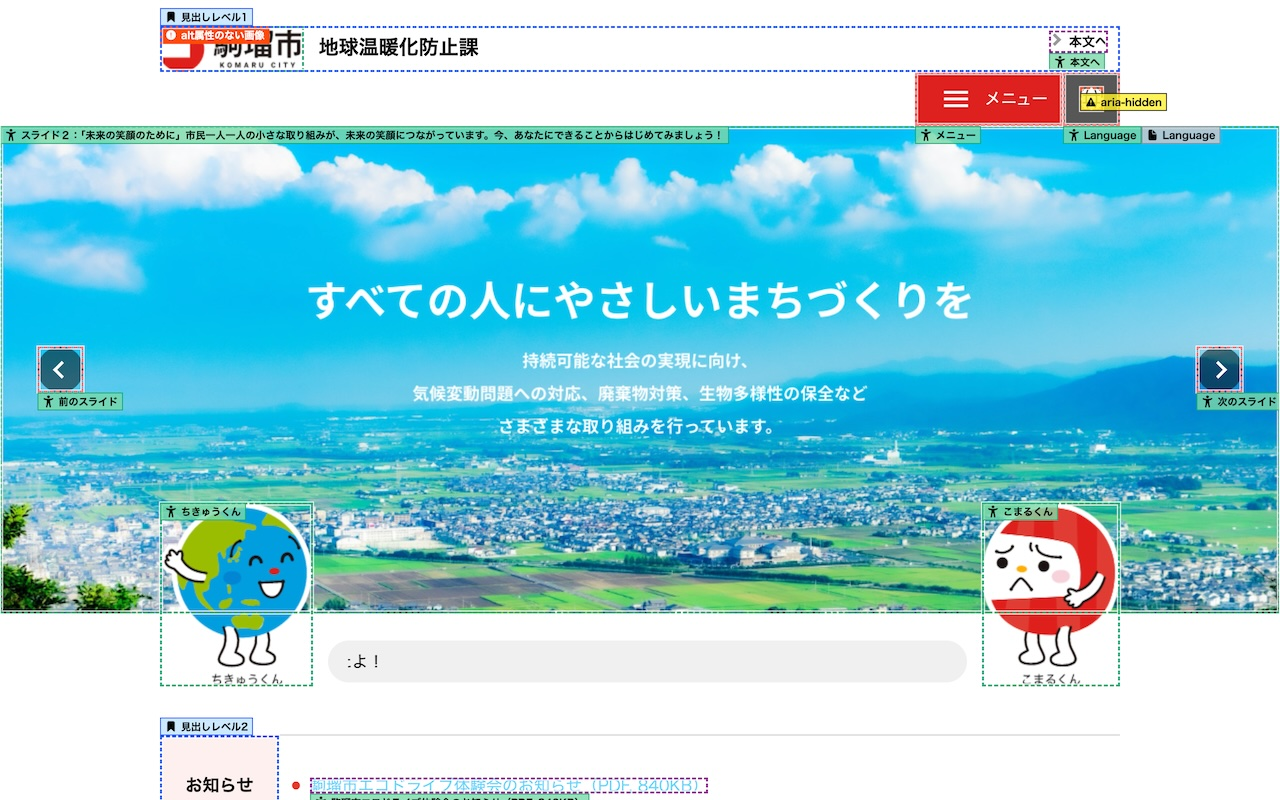
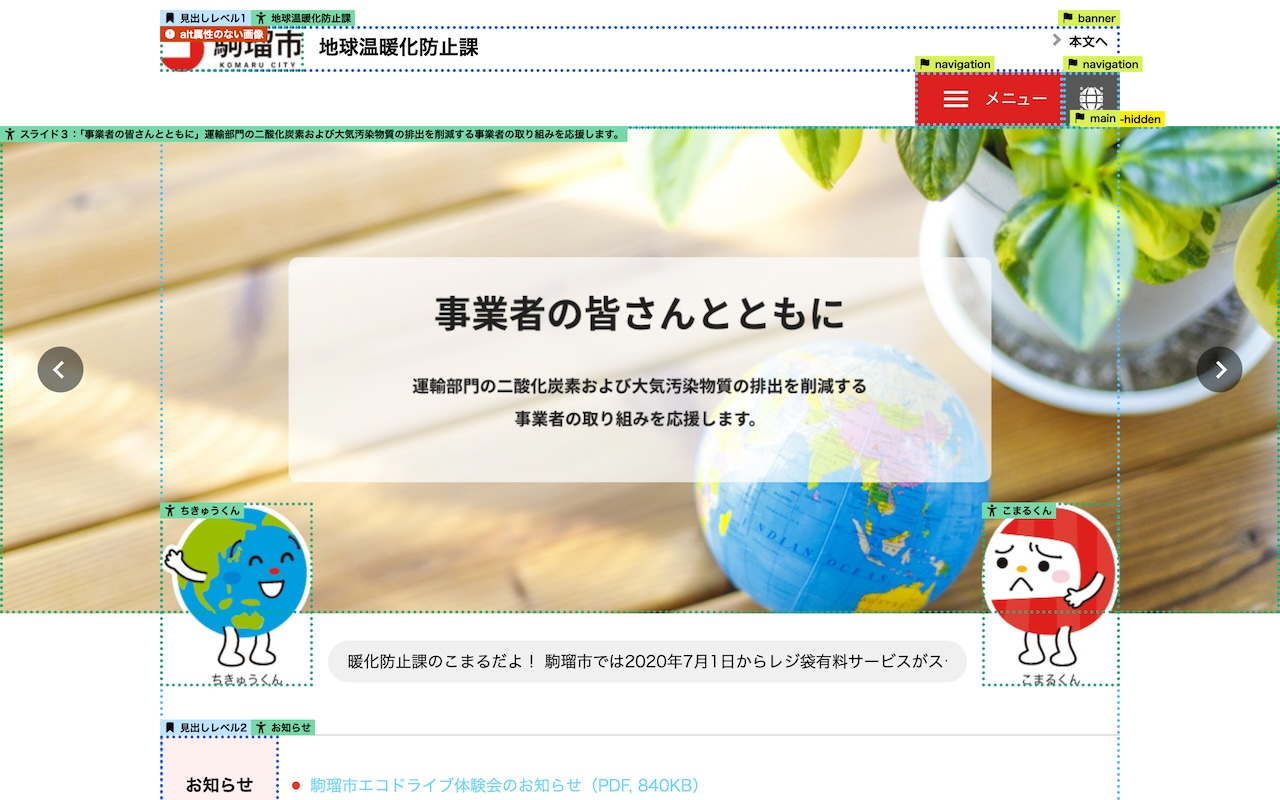
:memo: update documents

diff --git a/docs/en/UsersGuide.md b/docs/en/UsersGuide.md
@@ -4,7 +4,7 @@
 
 Thank you for your interest in Accessibility Visualizer.
 Accessibility Visualizer is a browser extension that aims to visualize important but visually invisible information to improve the accessibility of web pages.
-It is currently distributed for Google Chrome at [Chrome Web Store](https://chromewebstore.google.com/detail/accessibility-visualizer/idcacekakoknnpbfjcdhnkffgfbddnhk).
+It is currently distributed for Google Chrome at [Chrome Web Store](https://chromewebstore.google.com/detail/accessibility-visualizer/idcacekakoknnpbfjcdhnkffgfbddnhk) and for Mozilla Firefox at [Firefox Add-Ons](https://addons.mozilla.org/ja/firefox/addon/accessibility-visualizer/).
 
 ## What you can do with Accessibility Visualizer
 
@@ -54,7 +54,7 @@ The "Tips opacity" slider allows you to adjust the color intensity of the tip di
 When "Announce live regions" was checked in the popup, there was a change in [ARIA live regions](https://developer.mozilla.org/en-US/docs/Web/Accessibility/ARIA/ARIA_Live_Regions) The content will now be displayed near the center of the screen.
 This is a function that allows users of assistive technology such as screen readers to experience and check the operation of the live region function, which is used to inform users of changes in screen status, etc., without using screen readers. .
 
-![A large message "Download now! Speed up your PC!" is displayed in the center of the browser](./images/a11y_visualizer_live_region.png)
+![A large message "Download now! Speed up your PC!" is displayed in the center of the browser](../ja/images/a11y_visualizer_live_region.png)
 
 (The screenshot is from ["aria-live がうるさい (aria-live is noisy)" (ARIA-Barriers)](https://shuaruta.github.io/ARIA-Barriers/2023/12/22/aria-live.html), which displays the announcement. )
 
@@ -78,6 +78,7 @@ There are following types of tips
 - Name: Appears in green with a humanoid icon. Please check that the content is appropriate and that there are no omissions.
 - Description: Appears in gray with a document icon. Please check that the content is appropriate and that there are no omissions.
 - Heading: Displayed in blue with a bookmark icon. Check if the heading level is appropriate
+- Landmark: Displayed in yellow-green with a flag icon. Check if the landmark role is appropriate
 - Warning: Displayed in yellow with a warning triangle icon. Indicates where there may be a problem
 - Error: Displayed in red with an error triangle icon. Definitely indicates where the problem is
 - Role: pink and displayed with a tag icon
@@ -85,9 +86,9 @@ There are following types of tips
 
 "Name" is "[Accessible Name](https://developer.mozilla.org/en-US/docs/Glossary/Accessible_name)" and "Description" is "[Accessible Description](https://developer.mozilla.org/en-US/docs/Glossary/Accessible_description)" value is displayed. These are pieces of information that help users of assistive technologies, such as screen readers, recognize the element.
 
-### image
+### Images
 
-When "Show about image" is checked, tips are displayed for `<img>` elements, `<svg>` elements, and elements with the `role="img"` attribute.
+When "Images" is checked, tips are displayed for `<img>` elements, `<svg>` elements, and elements with the `role="img"` attribute.
 
 - So-called alternative text (alt text) is displayed in the name tip
   - Image alt text should be a concise description that conveys much of the same information even if the image were displayed instead.
@@ -97,17 +98,17 @@ When "Show about image" is checked, tips are displayed for `<img>` elements, `<s
 - If `alt=""` is specified in the `<img>` element, a warning tip "Image with alt="" will be displayed. Images in this state cannot be perceived by assistive technologies such as screen readers. **Please provide alt text unless this image is placed for decorative purposes**
 - If no alternative text is specified and it is not `aria-hidden` or `alt=""`, the error tip `Image without alt attribute'' or `No name (label)'' will be displayed. . In this case, **Modification is required**
 
-### button
+### Buttons
 
-When "Show about buttons" is checked, tips are displayed for`<button>` element, `<input>` element with `type` attribute of `button` `submit` `reset` `image`, and any elements with `role="button"` attribute.
+When "Buttons" is checked, tips are displayed for`<button>` element, `<input>` element with `type` attribute of `button` `submit` `reset` `image`, and any elements with `role="button"` attribute.
 
 - The name tip displays the button label. Please check if there are any omissions or if the labels are appropriate.
 - If no name is given, a **``No name (label)'' error tip** will be displayed. In this case, assistive technologies such as screen readers cannot predict the behavior of the button. **Modification required**
 - If the element has the `role="button"` attribute and is not focusable by default, and the `tabindex` attribute is not specified, a **``Unfocusable'' error tip** will be displayed. In this state, you cannot operate with the keyboard, so **Modification is required**
 
-### Link
+### Links
 
-When "Show about links" is checked, tips are displayed for `<a>` elements, `<area>` elements, and elements with the `role="link"` attribute.
+When "Links" is checked, tips are displayed for `<a>` elements, `<area>` elements, and elements with the `role="link"` attribute.
 
 - The text of the link will be displayed in the name tip. Please check if there are any omissions or if the text is appropriate.
 - If the link name becomes empty, a **"No name (label)" error tip** will be displayed. In this case, assistive technologies such as screen readers cannot perceive the purpose of the link. **Modification required**
@@ -115,7 +116,7 @@ When "Show about links" is checked, tips are displayed for `<a>` elements, `<are
 
 ### Form controls
 
-When "Show about form-controls" is checked, tips are displayed for `<input>` elements whose `type` attribute is `hidden` `button` `submit` `reset` `image`, `<textarea>` elements, `<select>` elements, `<label>` elements, and elements whose `role` attribute specifies `textbox`, `combobox`, `checkbox`, `radio`, `switch`, `menuitemcheckbox` or `menuitemradio` .
+When "Form controls" is checked, tips are displayed for `<input>` elements whose `type` attribute is `hidden` `button` `submit` `reset` `image`, `<textarea>` elements, `<select>` elements, `<label>` elements, `<fieldset>` elements, and elements whose `role` attribute specifies `textbox`, `combobox`, `checkbox`, `radio`, `switch`, `menuitemcheckbox` or `menuitemradio` .
 
 - Name tip displays form control labels. Please check if there are any omissions or if the labels are appropriate.
   - Typically, the `<label>` element is used for the `<input>` `<select>` `<textarea>` element
@@ -124,9 +125,9 @@ When "Show about form-controls" is checked, tips are displayed for `<input>` ele
 - If the radio button (`<input type="radio">`) does not have the same `name` attribute, a **"No name attribute" error tip** will be displayed. If there are no radio buttons with the same `name` attribute in the same `<form>` element or the same document, a **"No radiobutton group" error tip** will be displayed. These are not grouped as radio buttons, so users cannot select them with the keyboard or predict movement with the Tab key, and users may not be able to recognize which radio buttons are in the same group. **Modification required**
 - If `<label>` element does not have an associated form control or is hidden, a **"No control for label" warning tip** will be displayed. Especially when hidden for styling checkboxes or radio buttons, the possibility of not being able to operate with the keyboard is high. **Please check**
 
-### Heading
+### Headings
 
-When "Show about headings" is checked, tips are displayed for elements `<h1>` to `<h6>` and elements with the `role="heading"` attribute.
+When "Headings" is checked, tips are displayed for elements `<h1>` to `<h6>` and elements with the `role="heading"` attribute.
 
 - The heading level tip displays the heading level. Please make sure it is at the appropriate level.
   - `<h1>` to `<h6>` elements are used to indicate heading levels
@@ -135,8 +136,17 @@ When "Show about headings" is checked, tips are displayed for elements `<h1>` to
 - The name tip displays the heading text. Please check if there are any omissions or if the text is appropriate.
 - If a heading is not given a name, a ``No name (label)'' error tip will be displayed. In this case, assistive technologies such as screen readers will not be able to perceive the heading. **Modification required**
 
+### Sections
+
+When "Sections" is checked, tips are displayed for `<article>` elements, `<section>` elements, `<nav>` elements, `<aside>` elements, `<main>` elements, `<form>` elements, `<search>` elements, and elements whose role attribute specifies `article`, `banner`, `complementary`, `contentinfo`, `main`, `form`, `navigation`, `region`, `search`, or `application`.
+
+These elements are used to divide the content of the page into sections, and these helps users of assistive technologies such as screen readers to understand the page structure, and to skip some unnecesary contents.
+
+- The landmark tip displays the landmark role. Please check if the landmark role is appropriate
+- The name tip displays the section label if accesible name has been given by some ways. If it is displayed, please check if the content is appropriate, if there are any omissions, and if there are any other landmarks that has same name and same role.
+
 ### aria-hidden
 
-When "Show about aria-hidden" is checked, tips are displayed for elements with the `aria-hidden="true"` attribute.
+When "aria-hidden" is checked, tips are displayed for elements with the `aria-hidden="true"` attribute.
 
 - A warning tip indicates that the `aria-hidden="true"` attribute is present. Elements with this attribute are invisible to users of assistive technologies such as screen readers. If there is information displayed on the screen that the user can perceive, but `aria-hidden="true"` is specified, only users of assistive technology such as screen readers will not be able to perceive that information. If there is an element that is visually visible but marked as `aria-hidden` except for decorative elements, **needs modification**

diff --git a/docs/ko/UsersGuide.md b/docs/ko/UsersGuide.md
@@ -4,7 +4,7 @@
 
 우선 Accessibility Visualizer에 관심을 가져주셔서 정말 감사합니다.
 Accessibility Visualizer는 웹 페이지의 접근성을 향상시키기 위해 중요하면서도 시각적으로는 표시되지 않는 정보를 가시화하는 것을 목적으로 제작된 브라우저 확장 기능입니다.
-현재는 Google Chrome용으로 [Chrome 웹 스토어](https://chromewebstore.google.com/detail/accessibility-visualizer/idcacekakoknnpbfjcdhnkffgfbddnhk) 에서 배포하고 있습니다.
+현재는 Google Chrome용으로 [Chrome 웹 스토어](https://chromewebstore.google.com/detail/accessibility-visualizer/idcacekakoknnpbfjcdhnkffgfbddnhk) Mozilla Firefox용으로[Firefox Add-ons](https://addons.mozilla.org/ja/firefox/addon/accessibility-visualizer/) 에서 배포하고 있습니다.
 
 ## Accessibility Visualizer에서 할 수 있는 것
 
@@ -54,7 +54,7 @@ Accessibility Visualizer 를 설치하면 확장기능 메뉴 내에 Accessibili
 팝업 내의 '라이브리전을 안내하기'선택 시, [ARIA 라이브 리전](https://developer.mozilla.org/en-US/docs/Web/Accessibility/ARIA/ARIA_Live_Regions) 에 변화가 있을 경우, 해당 내용을 화면 중앙 부근에 나타냅니다.
 이것은 스크린 리더와 같은 보조기술 사용자에게 화면에서 일어나는 상태 변화 등을 실시간으로 전달하기 위해서 사용되는 라이브리전의 기능을, 스크린 리더 등을 사용하지 않고 체험하고 동작을 확인하기 위한 기능입니다.
 
-![브라우저 중앙에 크게 일본어로 「지금 다운로드!당신의 PC를 고속화!」라고 표시되고 있다](./images/a11y_visualizer_live_region.png)
+![브라우저 중앙에 크게 일본어로 「지금 다운로드!당신의 PC를 고속화!」라고 표시되고 있다](../ja/images/a11y_visualizer_live_region.png)
 
 (스크린샷은 ['aria-live がうるさい (aria-live가 시끄럽다)' (ARIA-Barriers)](https://shuaruta.github.io/ARIA-Barriers/2023/12/22/aria-live.html) 에서 공지사항을 표시한 것)
 
@@ -78,6 +78,7 @@ Accessibility Visualizer 를 설치하면 확장기능 메뉴 내에 Accessibili
 - 이름: 녹색으로 사람 모양 아이콘과 함께 표시됩니다. 내용이 적절한지 누락되지 않았는지 확인해 주세요.
 - 설명: 회색으로 서류 아이콘과 함께 표시됩니다. 내용이 적절한지 누락되지 않았는지 확인해 주세요.
 - 헤딩: 파란색으로 책갈피 아이콘과 함께 표시됩니다. 헤딩 레벨이 논리적으로 알맞게 사용되었는지 확인해 주세요.
+- Landmark: Displayed in yellow-green with a flag icon. Check if the landmark role is appropriate
 - 경고: 노란색으로 경고의 삼각형 아이콘과 함께 표시됩니다. 문제가 있을지도 모르는 부분을 나타내고 있습니다.
 - 오류: 빨간색으로 오류 삼각형 아이콘과 함께 표시됩니다. 확실히 문제가 있는 부분을 나타내고 있습니다.
 - 롤: 핑크색으로 꼬리표 아이콘과 함께 표시됩니다.
@@ -87,7 +88,7 @@ Accessibility Visualizer 를 설치하면 확장기능 메뉴 내에 Accessibili
 
 ### 이미지
 
-「이미지 정보 보기」선택 시, `<img>`요소, `<svg>` 요소, `role="img"` 속성을 가지는 요소에 대해서 팁을 표시합니다.
+「이미지」선택 시, `<img>`요소, `<svg>` 요소, `role="img"` 속성을 가지는 요소에 대해서 팁을 표시합니다.
 
 - 이름 팁에서 대체 텍스트(alt 텍스트)가 표시됩니다
   - 이미지의 대체 텍스트는, 이미지 대신에 표시되어도 같은 정보가 전달되어야 하는 내용으로, 간결한 설명으로 제공하는 것이 바람직합니다.
@@ -99,7 +100,7 @@ Accessibility Visualizer 를 설치하면 확장기능 메뉴 내에 Accessibili
 
 ### 버튼
 
-「버튼 정보 보기」선택 시, `<button>`요소, 「type」 속성이 `button` `submit` `reset` `image` 의 `<input>` 요소, `role="button"` 속성을 가지는 요소에 대해서 팁을 표시합니다.
+「버튼」선택 시, `<button>`요소, 「type」 속성이 `button` `submit` `reset` `image` 의 `<input>` 요소, `role="button"` 속성을 가지는 요소에 대해서 팁을 표시합니다.
 
 - 이름의 팁으로 버튼 라벨이 표시됩니다. 누락의 유무나 적절한 버튼명이 제공되고 있는지 확인해 주세요.
 - 이름이 주어지지 않은 경우, **「이름(라벨) 없음」의 에러 팁**이 표시됩니다. 이 경우에는 스크린 리더 등의 보조기술로는 버튼의 의미 및 동작, 기능을 예측할 수 없습니다. **수정이 필요합니다**
@@ -107,7 +108,7 @@ Accessibility Visualizer 를 설치하면 확장기능 메뉴 내에 Accessibili
 
 ### 링크
 
-「링크 정보 보기」선택 시, 「`<a>`」 요소, `<area>` 요소, `role="link"` 속성을 가진 요소에 대해 팁을 표시합니다.
+「링크」선택 시, 「`<a>`」 요소, `<area>` 요소, `role="link"` 속성을 가진 요소에 대해 팁을 표시합니다.
 
 - 이름의 팁으로 링크 텍스트가 표시됩니다. 누락의 유무나 적절한 링크 텍스트가 제공되는지 확인해 주세요.
 - 링크의 이름이 비어 있는 경우, **「이름(라벨) 없음」의 에러 팁**이 표시됩니다. 이 경우는 스크린 리더 등의 보조기술로는 링크의 목적을 알 수 없습니다. **수정이 필요합니다**
@@ -115,7 +116,7 @@ Accessibility Visualizer 를 설치하면 확장기능 메뉴 내에 Accessibili
 
 ### 입력 서식
 
-「입력 서식 정보 보기」선택 시, 'type' 속성이 'hidden' 'button' 'submit' 'reset' 'image' 이외의 `<input>` 요소, `<textarea>` 요소, `<select>` 요소, `<label>` 요소, 'role' 속성에 'textbox' `combobox` `checkbox` 'radio' 'switch' 'menuitemcheckbox' 'menuitemradio' 중 하나가 지정되어 있는 요소에 대해 팁을 표시합니다.
+「입력」선택 시, `type` 속성이 `hidden` `button` `submit` `reset` `image` 이외의 `<input>` 요소, `<textarea>` 요소, `<select>` 요소, `<label>` 요소, `<fieldset>` 요소, 'role' 속성에 'textbox' `combobox` `checkbox` 'radio' 'switch' 'menuitemcheckbox' 'menuitemradio' 중 하나가 지정되어 있는 요소에 대해 팁을 표시합니다.
 
 - 이름의 팁으로 입력 서식의 라벨이 표시됩니다. 누락의 유무나 적절한 라벨이 되어 있는지를 확인해 주세요.
   - `<input>` `<select>` `<textarea>` 요소에는 해당 요소의 id와 연결된 `<label>` 요소가 제공되어야 합니다.
@@ -126,7 +127,7 @@ Accessibility Visualizer 를 설치하면 확장기능 메뉴 내에 Accessibili
 
 ### 헤딩
 
-'헤딩 정보 보기'선택 시, `<h1>` 에서 `<h6>` 요소와, role="heading" 속성을 가지는 요소에 대해서 팁을 표시합니다.
+「헤딩」선택 시, `<h1>` 에서 `<h6>` 요소와, `role="heading"` 속성을 가지는 요소에 대해서 팁을 표시합니다.
 
 - 헤딩 레벨의 팁으로 헤딩 레벨이 표시됩니다.적절한 레벨 순서대로 제공되고 있는지, `<h1>`이 중복으로 제공되고 있는지 등을 확인해 주세요.
   - `<h1>` 에서 `<h6>` 요소는 헤딩의 레벨을 나타내기 위해 사용됩니다
@@ -135,8 +136,17 @@ Accessibility Visualizer 를 설치하면 확장기능 메뉴 내에 Accessibili
 - 이름의 팁으로 헤딩 텍스트가 표시됩니다. 누락의 유무나 적절한 텍스트가 되어 있는지 확인해 주세요.
 - 헤딩에 이름이 주어지지 않은 경우, **「이름(라벨) 없음」의 에러 팁**이 표시됩니다. 이 경우는 스크린 리더 등의 보조기술로는 헤딩를 알 수 없습니다. **수정이 필요합니다**
 
+### Sections
+
+When "Sections" is checked, tips are displayed for `<article>` elements, `<section>` elements, `<nav>` elements, `<aside>` elements, `<main>` elements, `<form>` elements, `<search>` elements, and elements whose role attribute specifies `article`, `banner`, `complementary`, `contentinfo`, `main`, `form`, `navigation`, `region`, `search`, or `application`.
+
+These elements are used to divide the content of the page into sections, and these helps users of assistive technologies such as screen readers to understand the page structure, and to skip some unnecesary contents.
+
+- The landmark tip displays the landmark role. Please check if the landmark role is appropriate
+- The name tip displays the section label if accesible name has been given by some ways. If it is displayed, please check if the content is appropriate, if there are any omissions, and if there are any other landmarks that has same name and same role.
+
 ### aria-hidden
 
-「aria-hidden 정보 보기」선택 시, `aria-hidden="true"` 속성을 가진 요소에 대해 팁을 표시합니다.
+「aria-hidden」선택 시, `aria-hidden="true"` 속성을 가진 요소에 대해 팁을 표시합니다.
 
 - 경고의 팁으로, `aria-hidden="true"` 속성이 존재하는 것으로 표시됩니다. 이 속성이 지정되어 있는 요소는 스크린 리더 등의 보조기술에서 탐색되지 않기 때문에 사용자는 해당 요소가 제공되는지 알 수 없습니다. 화면에 표시되어 있어 사용자가 알 수 있는 정보가 제공되면서도 `aria-hidden="ture"` 가 선언되어 있는 요소는 스크린 리더 등의 보조기술 사용자만 그 정보를 제공받지 못하게 됩니다. 장식목적의 요소 이외에 시각적으로 제공되는 정보에 `aria-hidden` 이 선언되어 있는 요소가 있을 경우 **수정이 필요합니다**

diff --git a/CONTRIBUTING.md b/CONTRIBUTING.md
@@ -1,0 +1,69 @@
+# Contributing to Accessibility Visualizer
+
+Accessibility Visualizerに興味を持っていただき、ありがとうございます。以下は、貢献を始めるための基本的なガイドラインです。
+
+Thank you for your interest in Accessibility Visualizer. Here are some basic guidelines to help you get started contributing.
+
+## Before You Begin 始める前に
+
+- セットアップ方法やビルド方法は、[README](./README.md)を参照してください。
+  Please refer to the [README](./README.md) for setup and build instructions.
+- IssueやPull Requestは主に日本語で書かれていますが、英語での貢献も大歓迎です。
+  Issues and pull requests are primarily written in Japanese, but contributions in English are also very welcome.
+- 特に、ユーザーインタフェースやドキュメントの多言語化に関する貢献を歓迎します。現在サポートされていない言語への翻訳も大歓迎です。
+  In particular, contributions to the multilingualization of the user interface and documentation are welcome. Translations into languages not currently supported are also very welcome.
+
+## License ライセンス
+
+貢献していただくことで、あなたの貢献は[MITライセンス](./LICENSE.txt)の下で提供されることに同意したものとみなされます。
+
+By contributing, you agree that your contributions will be licensed under the [MIT License](./LICENSE.txt).
+
+## Reporting Bugs バグの報告
+
+以下の内容を含めて、[Issue](https://github.com/ymrl/a11y-visualizer/issues)を作成してください。
+Please create an [Issue](https://github.com/ymrl/a11y-visualizer/issues) with the following:
+
+- Clear title: はっきりとしたタイトル
+- Steps to reproduce: 再現手順
+- Expected and actual behavior: 期待される動作と実際の動作
+- Environment details: 環境の詳細
+
+特に、特定のWebページでの問題を報告する場合には、そのページを確認できるURLか、再現できるソースコードを提供してください。
+Especially when reporting issues on specific web pages, please provide the URL of the page or the source code that can reproduce the issue.
+
+## Proposing New Features 新機能の提案
+
+新しい機能についても、[Issue](https://github.com/ymrl/a11y-visualizer/issues)を作成してください。
+ただし、実装の優先順位は、作者の判断により行います。提案いただいても実現できるかどうか保証できないことをご了承ください。
+
+Please create an [Issue](https://github.com/ymrl/a11y-visualizer/issues) for proposing new features.
+However, the priority of implementation is at the discretion of the author. Please note that we cannot guarantee that your proposal will be implemented.
+
+Issueには、以下の内容を提供してください。
+Please provide the following information in the issue:
+
+- Detailed description: 詳細な説明
+- Use cases and examples: ユースケースと例
+
+## Multilingalization 多言語化 (Help Wanted!!)
+
+We would greatly appreciate it if you could help us multilingualize the user interface and documentation of Accessibility Visualizer.
+The author is a native Japanese speaker and not a native English speaker, and has little knowledge of other languages.
+We welcome any contributions, such as correcting translation errors, adding new languages, and improving existing languages.
+
+Multilingualization of the user interface is done by editing the JSON files in the [src/i18n](./src/i18n) directory. To add a new language, create a new JSON file based on the Japanese (`ja.json`) or English (`en.json`) file, and submit a Pull Request.
+
+Accessibility Visualizerのユーザーインタフェースやドキュメントの多言語化をしていただけると、大変助かります。
+作者は日本語のネイティブスピーカーであり、英語はネイティブではなく、他の言語についてはほとんど知識がありません。
+翻訳の間違いの修正、新しい言語の追加、既存の言語の改善など、どのような貢献でも歓迎します。
+
+ユーザーインタフェースの多言語化は、[src/i18n](./src/i18n)ディレクトリにあるJSONファイルを編集することで行います。新しい言語を追加するには、日本語 (`ja.json`) または英語 (`en.json`) のファイルを元に、新しい言語のJSONファイルを作成し、Pull Requestを送信してください。
+
+## Pull Request
+
+Issueを立てるだけでなく、実際のコードを提供していただける場合は、Pull Requestを送信してください。
+Pull Requestが作成されると、自動的に `lint` `test` が実行されます。これらのチェックを通過するようにしてください。
+
+If you can provide actual code in addition to creating an issue, please submit a Pull Request.
+When a Pull Request is created, `lint` and `test` will be run automatically. Please make sure that these checks pass.

diff --git a/README.md b/README.md
@@ -3,6 +3,11 @@
 ![Screenshot of 駒瑠市. Showing annotations of accessibility properties](./a11y-visualizer-komarushi.jpg)
 (This screenshot from [駒瑠市〜アクセシビリティ上の問題の体験サイト〜](https://a11yc.com/city-komaru/))
 
+## Install
+
+- [Chrome Web Store](https://chromewebstore.google.com/detail/accessibility-visualizer/idcacekakoknnpbfjcdhnkffgfbddnhk)
+- [Firefox Add-ons](https://addons.mozilla.org/ja/firefox/addon/accessibility-visualizer/)
+
 ## Users' Guide
 
 - [Accessibility Visualizer ユーザーズガイド (Japanese)](./docs/ja/UsersGuide.md)
@@ -40,5 +45,6 @@ $ npm install
 $ npm run build
 
 # Build zip files to upload to the stores
+# The zip files are created as ./a11y-visualizer-chrome.zip and ./a11y-visualizer-firefox.zip
 $ npm run package
 ```
